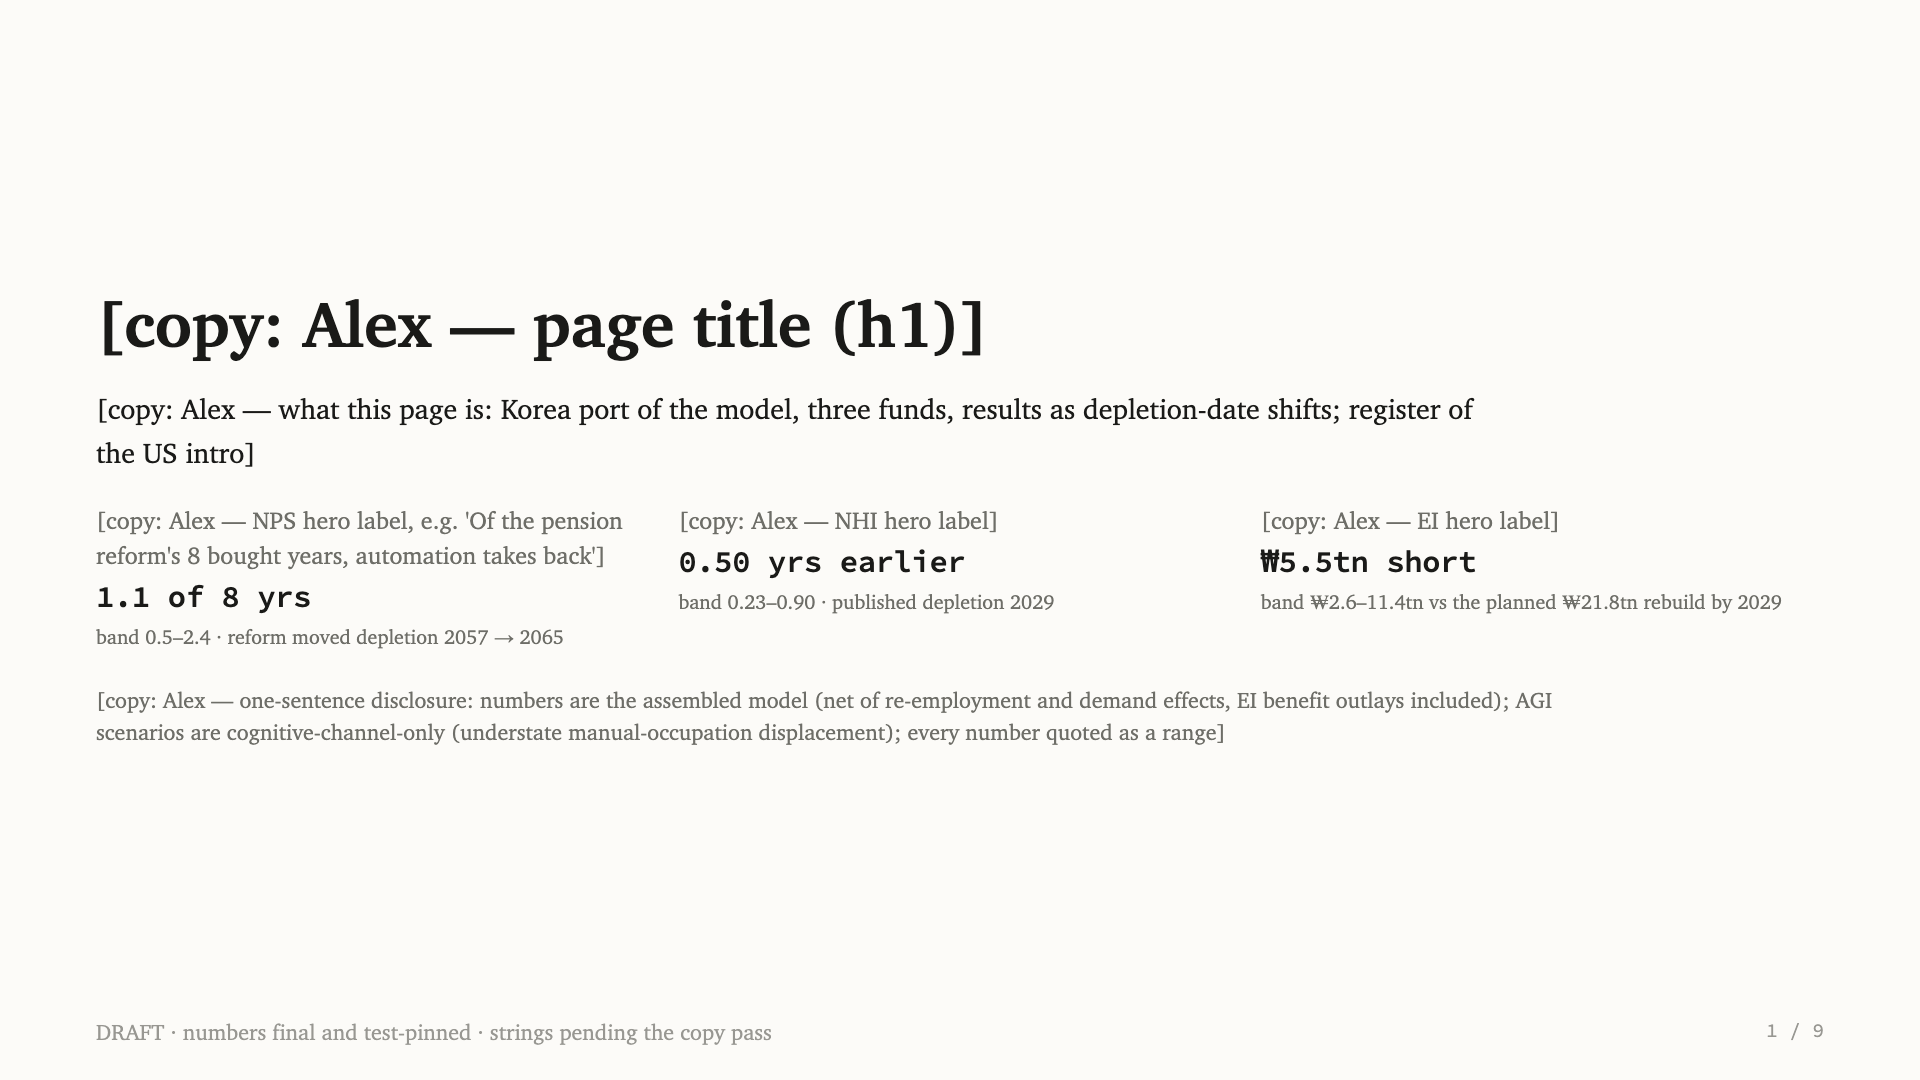
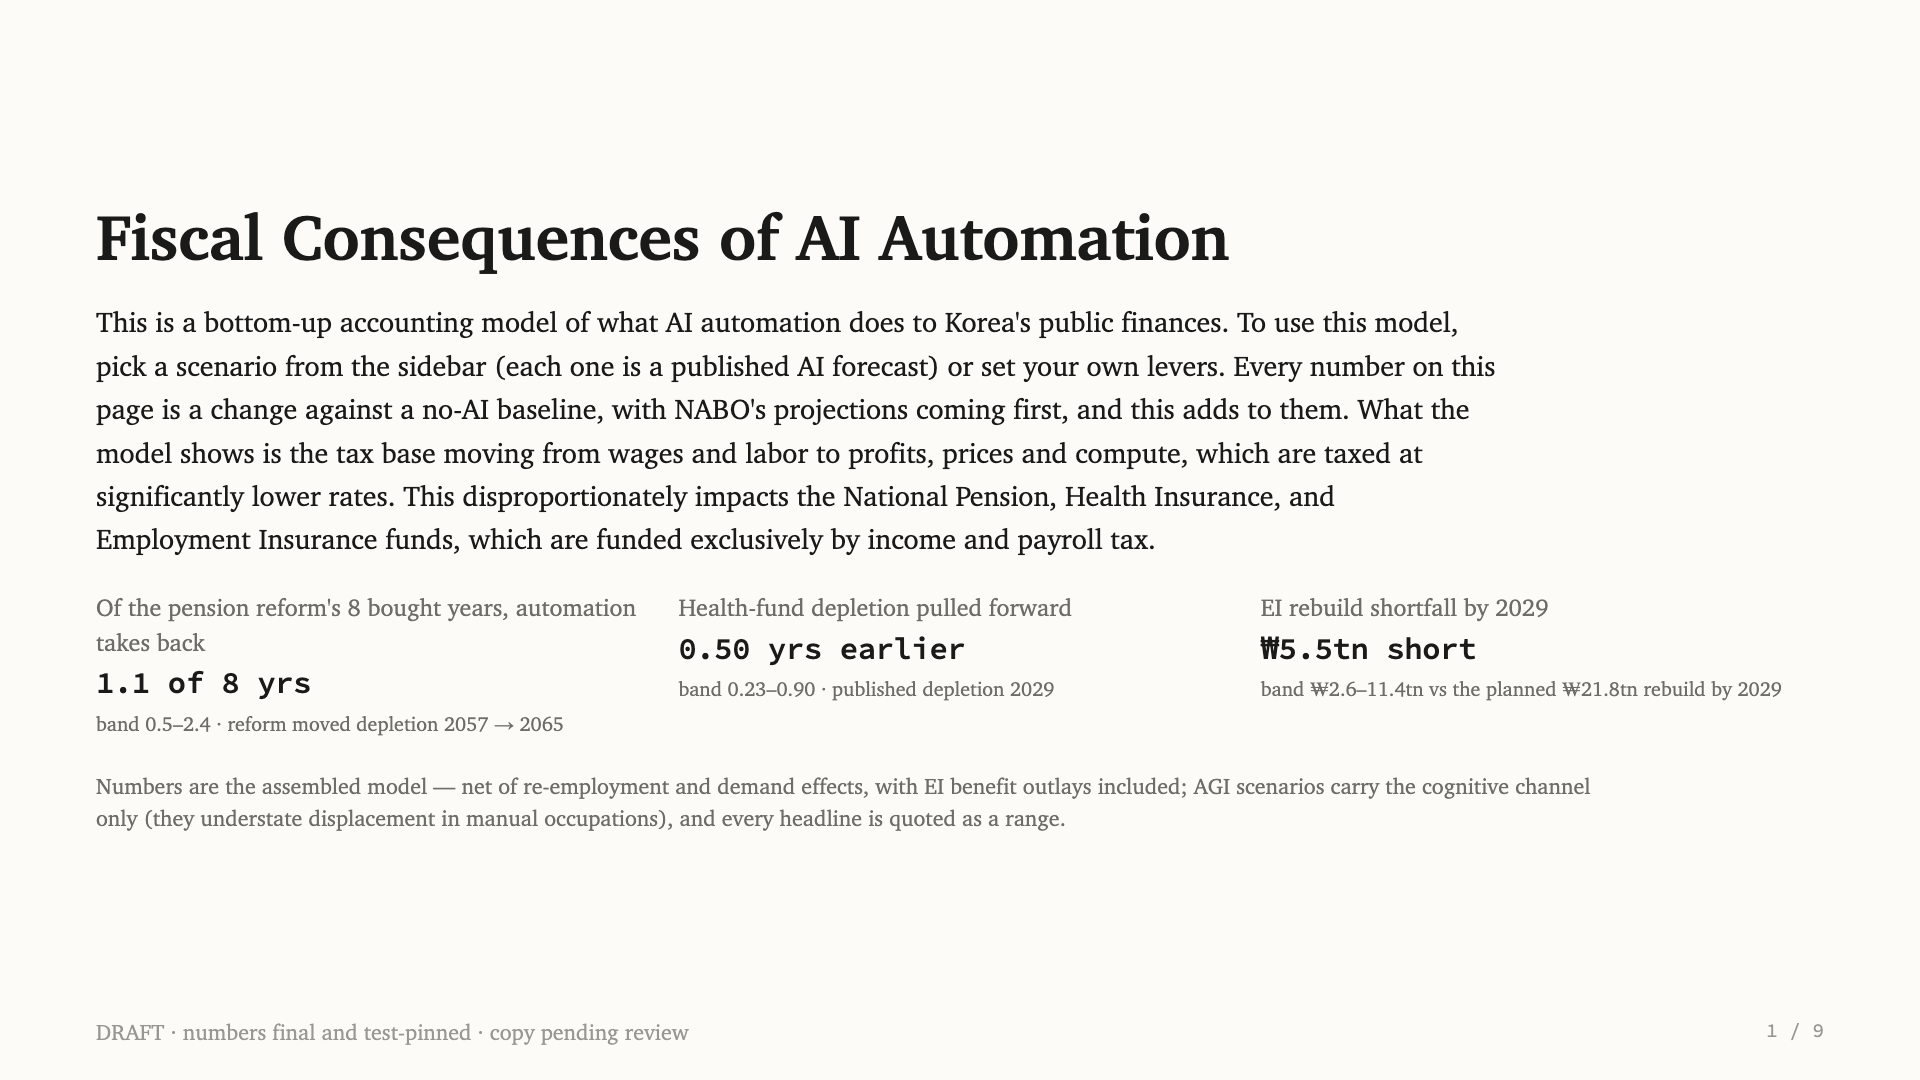
The Korea copy pass: Alex's intro + title, everything else ported from the US site or written short, per the amended arrangement
Alex wrote the title, intro, and the three fund chart titles (one typo
fixed: Insturance). The remaining 61 copy.json slots and 10 preset
blurbs are filled under his new rule - port the approved US copy where
it maps, write anything that fits in one substantial sentence, defer
real prose: US chart titles/captions ported and adapted where a US
claim does not hold for Korea (the budget caption drops the US
progressive-schedule explanation; the workforce caption re-anchors to
12.4M wage workers), the seven ported presets carry their US blurbs
with honesty edits (ai-2027's 'robotics ramping' becomes 'robot
economy not modeled here'; the AGI pair drops 'states leaning on
spending cuts' - no state closure in Korea), and the Korea-only
strings (fund shares, exposure read, population scenario, overlays,
tornado targets, scope box) are written one sentence each from the
established evidence-doc formulations.

Also surfaced and fixed by the pass: the AGI cognitive-only disclosure
never showed for korea-ai-2027 (substring check missed the key), and
the Korea workforce legend said 'Left labor force (SSDI)' - a US
program name on the Korean chart (timeSeries gains per-call label
overrides). Draft banners now say copy pending review; grid + slides
regenerated.

Suite 529 green; vitest 235; page screenshot-verified with real copy.

Changed region(s): [[0.0312, 0.275, 0.9375, 0.7639], [0.0312, 0.1833, 0.6562, 0.2444], [0.25, 0.9472, 0.4062, 0.9778]]

diff --git a/web/src/korea/KoreaScenarioApp.tsx b/web/src/korea/KoreaScenarioApp.tsx
@@ -77,7 +77,8 @@ export default function KoreaScenarioApp() {
   }, [qs])
 
   const preset = presetMeta(cfg.preset)
-  const isAgi = cfg.preset.includes('agi')
+  // ai-2027 shares the cognitive-only understatement even though its key lacks 'agi'
+  const isAgi = ['korea-agi-20y', 'korea-agi-5y', 'korea-ai-2027'].includes(cfg.preset)
   const startYear = payload?.config.start_year ?? 2026
   const rows = payload?.rows ?? []
   const budgetRows = useMemo(
@@ -181,8 +182,8 @@ export default function KoreaScenarioApp() {
       <main className="content">
         <div className="col-wide">
           <p className="panel caption draft-banner">
-            DRAFT — every string on this page is provisional until the copy pass
-            (content/copy.json → &quot;korea&quot;). Numbers are final and test-pinned.
+            DRAFT — copy is ported/short-written pending Alex&apos;s review; numbers are
+            final and test-pinned.
           </p>
           <h1>{KO.title}</h1>
           <p>{KO.intro}</p>
@@ -226,7 +227,7 @@ export default function KoreaScenarioApp() {
                 <Metric
                   label={KO.metrics.demography}
                   value={`−${payload.final.demo_decline_pct.toFixed(1)}%`}
-                  ground={`workforce decline from demography ALONE (KOSIS ${payload.final.demo_variant} variant) by ${payload.config.start_year + payload.config.display_periods - 1} — automation's losses are measured on top of this`}
+                  ground={`KOSIS ${payload.final.demo_variant} variant, by ${payload.config.start_year + payload.config.display_periods - 1} — automation's losses are measured on top of this path`}
                 />
                 <Metric
                   label={KO.metrics.jobs}
@@ -292,7 +293,8 @@ export default function KoreaScenarioApp() {
                 spec={timeSeries(rows, ['employed_M', 'on_ui_M', 'exhausted_M', 'reabsorbed_M',
                   'exited_M', 'induced_M', 'retired_M'], 'millions of workers', startYear,
                   { kind: 'area', stack: true, height: 300, colors: WF_COLORS,
-                    totalLabel: 'All workers (modeled)' })}
+                    totalLabel: 'All workers (modeled)',
+                    labels: { exited_M: 'Left labor force' } })}
                 caption={KO.captions.workforce}
               />
               <ChartPanel

diff --git a/web/src/korea/KoreaSlides.tsx b/web/src/korea/KoreaSlides.tsx
@@ -215,7 +215,7 @@ export default function KoreaSlides() {
       <div className="slide export" style={{ width: SLIDE_W, height: SLIDE_H }}>
         {s.body}
         <div className="slide-footer caption">
-          <span>DRAFT · numbers final and test-pinned · strings pending the copy pass</span>
+          <span>DRAFT · numbers final and test-pinned · copy pending review</span>
           <span className="num">{exportSlide} / {slides.length}</span>
         </div>
       </div>
@@ -234,7 +234,7 @@ export default function KoreaSlides() {
                                         transform: `scale(${scale})` }}>
           {slides[active].body}
           <div className="slide-footer caption">
-            <span>DRAFT · numbers final and test-pinned · strings pending the copy pass</span>
+            <span>DRAFT · numbers final and test-pinned · copy pending review</span>
             <span className="num">{active + 1} / {slides.length}</span>
           </div>
         </div>

diff --git a/web/src/charts/timeSeries.ts b/web/src/charts/timeSeries.ts
@@ -7,6 +7,8 @@ import { LABELS } from './labels'
 import { PALETTE } from './palette'
 
 export interface TsOpts {
+  labels?: Record<string, string>
+
   kind?: 'line' | 'area' | 'bar'
   stack?: boolean
   height?: number
@@ -25,11 +27,11 @@ export function timeSeries(
 ): VisualizationSpec {
   const { kind = 'line', stack, height = 260, colors, yZero = true,
           tooltipFormat = ',.1f', totalLabel } = opts
-  const labels = cols.map((c) => LABELS[c] ?? c)
+  const labels = cols.map((c) => opts.labels?.[c] ?? LABELS[c] ?? c)
   const long = rows.flatMap((r) =>
     cols.map((c, i) => ({
       year: startYear + (r.period as number),
-      series: LABELS[c] ?? c,
+      series: opts.labels?.[c] ?? LABELS[c] ?? c,
       sidx: i,
       value: r[c],
     })),

diff --git a/web/src/charts/labels.ts b/web/src/charts/labels.ts
@@ -11,9 +11,9 @@ export const LABELS: Record<string, string> = {
   fed_deficit_abs_B: 'Federal deficit (absolute)',
   fed_revenue_B: 'Federal revenue',
   // Korea chart columns (₩tn-scaled client-side) — [copy: Alex] like every Korea string
-  fed_revenue_tn: '[copy: Alex — national revenue series label]',
-  fed_deficit_abs_tn: '[copy: Alex — national deficit series label]',
-  ei_outlay_tn: '[copy: Alex — EI benefit outlay series label]',
+  fed_revenue_tn: 'National revenue',
+  fed_deficit_abs_tn: 'National deficit (absolute)',
+  ei_outlay_tn: 'EI benefit outlays',
   fed_deficit_B: 'Federal deficit change',
   fed_debt_B: 'Federal debt change (cumulative)',
   retained_profit_B: 'Kept as profit',

diff --git a/web/src/korea/KoreaApp.tsx b/web/src/korea/KoreaApp.tsx
@@ -51,8 +51,8 @@ export default function KoreaApp() {
       <main className="content korea-content">
         <div className="col-wide">
           <p className="panel caption draft-banner">
-            DRAFT — every string on this page is provisional until the copy pass
-            (content/copy.json → &quot;korea&quot;). Numbers are final and test-pinned.
+            DRAFT — copy is ported/short-written pending Alex&apos;s review; numbers are
+            final and test-pinned.
           </p>
           <h1>{KO.title}</h1>
           <p>{KO.intro}</p>

diff --git a/fiscal_model/korea_scenarios.py b/fiscal_model/korea_scenarios.py
@@ -175,7 +175,7 @@ from .presets import Preset, build_adoption_path  # noqa: E402
 
 KOREA_PRESETS = {
     "korea-slow": Preset(
-        key="korea-slow", name="Korea — slow diffusion", blurb="[copy TBD — not model-authored]",
+        key="korea-slow", name="Korea — slow diffusion", blurb="A China-shock-grind analogue: SME-laggard persistence holds realized displacement of exposed work to 10% by 2035.",
         adoption_start=0.005, adoption_end=0.10, n_periods=10, overrides={},
         adoption_reach_year=9,
         provenance={
@@ -186,7 +186,7 @@ KOREA_PRESETS = {
                             "realized displacement of HELC jobs to ~10% by 2035",
         }),
     "korea-central": Preset(
-        key="korea-central", name="Korea — central", blurb="[copy TBD — not model-authored]",
+        key="korea-central", name="Korea — central", blurb="US-observed early adoption discounted for Korea's SME lag, reaching the Acemoglu-class 20% of exposed work by 2035.",
         adoption_start=0.01, adoption_end=0.20, n_periods=10, overrides={},
         adoption_reach_year=9,
         provenance={
@@ -195,7 +195,7 @@ KOREA_PRESETS = {
                             "automatable within 10y → 0.20 with the Korea adoption lag",
         }),
     "korea-fast": Preset(
-        key="korea-fast", name="Korea — fast catch-up", blurb="[copy TBD — not model-authored]",
+        key="korea-fast", name="Korea — fast catch-up", blurb="Half of feasible automation realized by 2035 on Korea's ICT-readiness catch-up.",
         adoption_start=0.02, adoption_end=0.40, n_periods=10, overrides={},
         adoption_reach_year=9,
         provenance={
@@ -217,7 +217,7 @@ KOREA_PRESETS = {
     # invariant (every preset reaches-then-holds at ANY horizon) pins reach_year=9 here.
     "korea-acemoglu": Preset(
         key="korea-acemoglu", name="Acemoglu — Modest AI",
-        blurb="[copy TBD — not model-authored]",
+        blurb="Acemoglu's 10-year upper bounds, which are small exposed share, modest productivity, normal labor market, and no wage response.",
         adoption_start=0.02, adoption_end=0.23, n_periods=10, adoption_reach_year=9,
         overrides=dict(reabsorption_rate=0.50, reemployment_haircut=0.13, lfp_exit_rate=0.03,
                        retained_profit_share=0.60, price_reduction_share=0.35, auto_cost=0.05,
@@ -241,7 +241,7 @@ KOREA_PRESETS = {
     ),
     "korea-brynjolfsson": Preset(
         key="korea-brynjolfsson", name="Brynjolfsson — Augmentation",
-        blurb="[copy TBD — not model-authored]",
+        blurb="AI augments more than it automates, so slow realized adoption, gains shared with survivors, strong productivity, and mild impacts.",
         adoption_start=0.02, adoption_end=0.30, n_periods=10, adoption_reach_year=9,
         overrides=dict(reabsorption_rate=0.60, reemployment_haircut=0.10, lfp_exit_rate=0.02,
                        retained_profit_share=0.55, price_reduction_share=0.25, auto_cost=0.10,
@@ -263,7 +263,7 @@ KOREA_PRESETS = {
     ),
     "korea-karger": Preset(
         key="korea-karger", name="Karger et al. — Expert survey, rapid",
-        blurb="[copy TBD — not model-authored]",
+        blurb="The NBER expert survey's rapid scenario, which sits at a 14% probability. This means strong growth, modest displacement that exits the labor force, and a falling labor share.",
         adoption_start=0.03, adoption_end=0.16, n_periods=10, adoption_reach_year=9,
         overrides=dict(reabsorption_rate=0.35, reemployment_haircut=0.13, lfp_exit_rate=0.06,
                        retained_profit_share=0.55, price_reduction_share=0.25, auto_cost=0.15,
@@ -288,7 +288,7 @@ KOREA_PRESETS = {
     ),
     "korea-metaculus": Preset(
         key="korea-metaculus", name="Metaculus — Crowd median, 2035",
-        blurb="[copy TBD — not model-authored]",
+        blurb="The Labor Automation Hub's community medians: employment below the no-AI baseline, labor share down, and survivor wages up — US-calibrated, carried parametrically.",
         adoption_start=0.02, adoption_end=0.20, n_periods=10, adoption_reach_year=9,
         overrides=dict(reabsorption_rate=0.45, reemployment_haircut=0.12, lfp_exit_rate=0.04,
                        retained_profit_share=0.45, price_reduction_share=0.20, auto_cost=0.10,
@@ -315,7 +315,7 @@ KOREA_PRESETS = {
     ),
     "korea-ai-2027": Preset(
         key="korea-ai-2027", name="AI 2027 — Fast takeoff",
-        blurb="[copy TBD — not model-authored]",
+        blurb="Cognition automated almost immediately with heavy compute investment. The scenario's robot economy is not modeled here — cognitive channel only.",
         adoption_start=0.20, adoption_end=1.0, n_periods=8, adoption_reach_year=5,
         overrides=dict(reabsorption_rate=0.10, reemployment_haircut=0.40, lfp_exit_rate=0.05,
                        retained_profit_share=0.70, price_reduction_share=0.20, auto_cost=0.30,
@@ -355,7 +355,7 @@ KOREA_PRESETS = {
     # later forces a conscious revisit.
     "korea-agi-20y": Preset(
         key="korea-agi-20y", name="Korinek-Suh — AGI in 20 years",
-        blurb="[copy TBD — not model-authored]",
+        blurb="Full automation of exposed work over 20 years, with wages collapsing and capital keeping the gains.",
         adoption_start=0.05, adoption_end=1.0, n_periods=20, adoption_reach_year=19,
         overrides=dict(cognitive_feasibility=1.0, physical_feasibility=0.0,
                        reabsorption_rate=0.05, reemployment_haircut=0.40, lfp_exit_rate=0.05,
@@ -386,7 +386,7 @@ KOREA_PRESETS = {
     ),
     "korea-agi-5y": Preset(
         key="korea-agi-5y", name="Korinek-Suh — AGI in 5 years",
-        blurb="[copy TBD — not model-authored]",
+        blurb="Full automation of exposed work at year 5, viewed over a 10-year fiscal window.",
         adoption_start=0.20, adoption_end=1.0, n_periods=10, adoption_reach_year=5,
         overrides=dict(cognitive_feasibility=1.0, physical_feasibility=0.0,
                        reabsorption_rate=0.05, reemployment_haircut=0.40, lfp_exit_rate=0.10,
